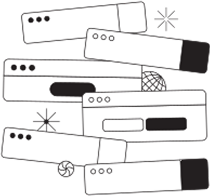
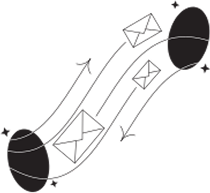
checkpoint 2 save

diff --git a/src/app/shared/components/service-bar/service-bar.component.scss b/src/app/shared/components/service-bar/service-bar.component.scss
@@ -1,7 +1,57 @@
+@use 'typography';
+
+:host {
+  &:hover {
+    cursor: pointer;
+    transform: scale(1.02);
+    color: var(--primary-black);
+  }
+  &.tertiary .service-card {
+    background-color: var(--tertiary-grey);
+  }
+  &.secondary .service-card {
+    background-color: var(--secondary-green);
+  }
+  &.primary .service-card {
+    background-color: var(--primary-black);
+    color: var(--text-white);
+  }
+}
+
+.service-card {
+  width: 600px;
+  height: 310px;
+  display: flex;
+  justify-content: space-around;
+  align-items: center;
+  border: 1px solid var(--primary-black);
+  border-radius: 45px;
+  box-shadow: 0 10px 0px -5px;
+}
+
+.service-left {
+  display: flex;
+  flex-direction: column;
+  gap: 93px;
+}
+
+.service-heading {
+  h4 {
+    @include typography.font-medium;
+  }
+}
+
+.service-in {
+  display: flex;
+  align-items: center;
+  gap: 15px;
+}
+
 p::before {
-    content: "";
-    width: 41px;
-    height: 41px;
-    background: url('/images/Arrow.png') no-repeat center;
-    background-size: contain;
+  display: inline-block;
+  content: "";
+  width: 41px;
+  height: 41px;
+  background: url("/images/Arrow.png") no-repeat center;
+  background-size: contain;
 }

diff --git a/src/app/pages/services/services.component.html b/src/app/pages/services/services.component.html
@@ -2,14 +2,26 @@
   <div class="container">
     <div class="services">
       <div class="service-bar">
-        <h3>Services</h3>
+        <div class="service-heading">
+          <h3>Services</h3>
+        </div>
         <p>
           At our digital marketing agency, we offer a range of services to help
           businesses grow and succeed online. These services include:
         </p>
       </div>
       <div class="service-info">
-        
+        @for (service of services; track service.id; let i = $index) {
+          <app-service-bar
+            [service]="service"
+            [class]="{
+              tertiary: i % 3 === 0,
+              secondary: i % 3 === 1,
+              primary: i % 3 === 2,
+              invert: i % 3 === 2
+            }"
+          />
+        }
       </div>
     </div>
   </div>

diff --git a/src/app/pages/services/services.component.ts b/src/app/pages/services/services.component.ts
@@ -1,10 +1,11 @@
 import { HttpClient } from '@angular/common/http';
 import { Component, inject, OnInit } from '@angular/core';
 import { Service } from '../../shared/modals/services.modal';
+import { ServiceBarComponent } from "../../shared/components/service-bar/service-bar.component";
 
 @Component({
   selector: 'app-services',
-  imports: [],
+  imports: [ServiceBarComponent],
   templateUrl: './services.component.html',
   styleUrl: './services.component.scss',
 })
@@ -13,7 +14,7 @@ export class ServicesComponent implements OnInit {
   services: Service[] = [];
 
   ngOnInit(): void {
-    this.http.get<Service[]>('/assets/data/services.json').subscribe((data) => {
+    this.http.get<Service[]>('/data/services.json').subscribe((data) => {
       this.services = data;
     });
   }

diff --git a/src/app/pages/services/services.component.scss b/src/app/pages/services/services.component.scss
@@ -1,0 +1,36 @@
+@use "typography";
+
+.services {
+  margin-top: 140px;
+  margin-bottom: 100px;
+}
+
+.service-bar {
+  display: flex;
+  align-items: start;
+  gap: 40px;
+  margin-bottom: 80px;
+
+  .service-heading {
+    background-color: var(--secondary-green);
+    width: 178px;
+    height: 51px;
+    border-radius: 7px;
+    h3 {
+      @include typography.font-regular;
+      text-align: center;
+    }
+  }
+
+  p {
+    width: 580px;
+    @include typography.font-smaller;
+  }
+}
+
+.service-info {
+    display: grid;
+    grid-template-columns: 1fr 1fr;
+    gap: 40px;
+    // justify-items: center;
+}

diff --git a/src/app/shared/components/service-bar/service-bar.component.html b/src/app/shared/components/service-bar/service-bar.component.html
@@ -1,9 +1,14 @@
 <div class="service-card">
   <div class="service-left">
-    <h4>{{title()}}</h4>
-    <p>Learn more</p>
+    <div class="service-heading">
+      <h4>{{ service()?.t1 }}</h4>
+      <h4>{{ service()?.t2 }}</h4>
+    </div>
+    <div class="service-icon">
+      <p class="service-in">Learn more</p>
+    </div>
   </div>
   <div class="image">
-    <img src="" alt="" />
+    <img [src]="service()?.image" [alt]="service()?.alt" />
   </div>
 </div>

diff --git a/src/app/shared/components/service-bar/service-bar.component.ts b/src/app/shared/components/service-bar/service-bar.component.ts
@@ -1,4 +1,5 @@
 import { Component, inject, input } from '@angular/core';
+import { Service } from '../../modals/services.modal';
 
 @Component({
   selector: 'app-service-bar',
@@ -7,5 +8,5 @@ import { Component, inject, input } from '@angular/core';
   styleUrl: './service-bar.component.scss',
 })
 export class ServiceBarComponent {
-  title = input<String>();
+  service = input<Service>();
 }

diff --git a/src/styles/typography.scss b/src/styles/typography.scss
@@ -1,3 +1,8 @@
+@mixin font-smaller {
+  font-size: 18px;
+  font-weight: 400;
+}
+
 @mixin font-small {
   font-size: 20px;
   font-weight: 400;
@@ -9,6 +14,11 @@
 }
 
 @mixin font-medium {
+  font-size: 40px;
+  font-weight: 600;
+}
+
+@mixin font-large {
   font-size: 60px;
   font-weight: 500;
 }

diff --git a/src/app/shared/modals/services.modal.ts b/src/app/shared/modals/services.modal.ts
@@ -1,5 +1,7 @@
 export interface Service {
     id: number,
+    t1: string,
+    t2: string,
     image: string,
     alt: string
 }
